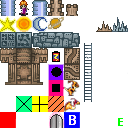
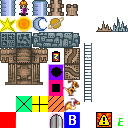
implemented the weapons

diff --git a/BinaryWarriors/Level3.m b/BinaryWarriors/Level3.m
@@ -12,6 +12,9 @@
 #import "Harpie.h"
 #import "SoundEffects.h"
 #import "Lives.h"
+#import "GameController.h"
+#import "Bullet.h"
+
 
 #define REWARD_CRUSH_MONSTA 20
 
@@ -40,6 +43,7 @@
     if((self = [super init])) {
         bubbles = [[NSArray alloc]initWithObjects:
                    @"Caught!",@"Gotcha!",@"Take that!",@"Pow!",@"Ha, ha!",nil];
+        gunLayer = [world layerNamed:@"gun"];
         
         feedback = [CCLabelTTF labelWithString:@"" fontName:@"Marker Felt" fontSize:24];
         
@@ -52,6 +56,7 @@
         // If you forget to add the feedback to the world and try to position
         // it later, cocos2d crashes
         [self addChild:feedback z:95];
+        bullets = [[NSMutableArray alloc] init];
     }
     
     return self;
@@ -60,6 +65,36 @@
 - (void) initWorld {
     [super initWorld];
     
+}
+
+- (void) update: (ccTime)dt{
+    [super update: dt];
+    if(caught || complete){
+        return;
+    }
+    if([gunLayer tileGIDAt:[grace getPosition]] != 0){
+        [grace foundWeapon];
+        [gunLayer removeTileAt:[grace getPosition]];
+    }
+    if([grace hasWeapon] && [[GameController instance] shootPressed] ){
+        CGPoint here = [grace getPosition];
+        int direction = [grace getDirection];
+        CGPoint to = [Helper tile:here toWorld:world];
+        to.x += (direction * 16);
+        to.y += 16;
+        Bullet* bullet = [[Bullet alloc] initAt:to of:self direct:direction enem:enemies];
+        [self addChild:bullet z:90];
+        [bullets addObject:bullet];
+    }
+    for(Bullet* bullet in bullets){
+        [bullet update];
+    }
+}
+
+-(void) destroyBullet:(id)bullet{
+    [self removeChild:bullet];
+    [bullet destroy];
+    //[bullets removeObject:bullet];
 }
 
 

diff --git a/BinaryWarriors/Bullet.m b/BinaryWarriors/Bullet.m
@@ -8,14 +8,71 @@
 
 #import "Bullet.h"
 #import "Entity.h"
-#import "Level3.h"
+//#import "Level1.h"
+//#import "level3.h"
+#define SPEED_FLYA 4
 
-@implementation Bullet{
-    Level1* level;
-    int x;
-    int y;
+#define FACING_LEFT 1
+#define FACING_RIGHT 0
+
+@implementation Bullet : Entity
+
+- (void) update {
+    if(destroyed){
+        return;
+    }
+	[self moveOnCondition];
 }
 
+-(void) moveTo:(int) dx and: (int) dy {
+	[self setPosition:ccp(self.x + dx,self.y + dy)];
+    
+}
+
+-(void) moveOnCondition {
+	[self moveTo: xSpeed and: ySpeed];
+	
+	if([self collidesWithLevel]) {
+		[myLevel destroyBullet: self];
+		
+		[self collisionEvent];
+	}
+}
+
+-(bool) collidesWithLevel {
+	return [level collidesWith: self];
+}
+
+-(void) collisionEvent {
+    for(Enemy* enemy in enemies){
+        if([enemy collidesWithBullet: self]){
+            destroyed = true;
+        }
+    }
+}
+
+-(void) destroy {
+    destroyed = true;
+}
+
+- (id) initAt:(CGPoint) here of:(Level3*) level_ direct: (int) _d  enem: (NSMutableArray*) eneme{
+    [super initWithFrames: @"bullet.png" width:10 andHeight:10];
+    enemies = eneme;
+	destroyed = false;
+	xSpeed = SPEED_FLYA * _d;
+	
+	ySpeed = 0;
+    
+    [self collisionEvent];
+	
+	[self setPosition:here];
+    [self nextFrame];
+    
+    level = level_;
+    myLevel = level_;
+	
+	return self;
+}
 
 
 @end

diff --git a/BinaryWarriors/Bullet.h b/BinaryWarriors/Bullet.h
@@ -7,7 +7,35 @@
 //
 
 #import <Foundation/Foundation.h>
+#import "Entity.h"
+#import "Level3.h"
 
-@interface Bullet : NSObject
+@interface Bullet : Entity {
+    int xSpeed;
+    int ySpeed;
+    Level3* myLevel;
+    bool destroyed;
+    NSMutableArray* enemies;
+}
 
+@property(nonatomic) enum state state;
+
+/** Updates an enemy */
+-(void) update;
+
+/** Moves enemy relative to current location */
+-(void) moveTo: (int) x and: (int)y;
+
+/** Moves conditionally */
+-(void) moveOnCondition;
+
+/** Returns true if enemy collides with the level */
+-(bool) collidesWithLevel;
+
+/** handles a collision event */
+-(void) collisionEvent;
+
+- (void) destroy;
+
+- (id) initAt:(CGPoint) here of:(Level3*) level_ direct: (int) _d enem: (NSMutableArray*) eneme;
 @end

diff --git a/BinaryWarriors/GameController.m b/BinaryWarriors/GameController.m
@@ -138,7 +138,7 @@ static GameController* gameController = nil;
     joystickBasePosition = ccp(screenSize.width*0.07f, screenSize.height*0.11f);
     
     quitButtonPosition = ccp(screenSize.width-16.0f, screenSize.height-16.0f);
-    CGPoint shootButtonPosition = ccp(screenSize.width*0.07f, screenSize.height*0.15f);
+    CGPoint shootButtonPosition = ccp(screenSize.width*0.07f, screenSize.height*0.23f);
     //    }
     
     SneakyJoystickSkinnedBase *joystickBase = [[[SneakyJoystickSkinnedBase alloc] init] autorelease];

diff --git a/BinaryWarriors/Enemy.m b/BinaryWarriors/Enemy.m
@@ -32,6 +32,18 @@
 	}
 }
 
+- (bool) collidesWithBullet:(Entity *)bullet{
+    if(state == STATE_ALIVE){
+        if(bullet.x > self.x && bullet.x < self.x + 32){
+            if(bullet.y > self.y && bullet.y < self.y + 32){
+                state = STATE_DYING;
+                return true;
+            }
+        }
+    }
+    return false;
+}
+
 -(bool) collidesWithLevel {
 	return [level collidesWith: self];
 }

diff --git a/BinaryWarriors/Level3.h b/BinaryWarriors/Level3.h
@@ -9,7 +9,10 @@
 #import <Foundation/Foundation.h>
 #import "Level2.h"
 
-@interface Level3 : Level2
+@interface Level3 : Level2{
+    NSMutableArray* bullets;
+    CCTMXLayer* gunLayer;
+}
 
 /** Gets a scene for this layer */
 + (CCScene *) scene;
@@ -19,4 +22,9 @@
 
 /** Initializes the world */
 - (void) initWorld;
+
+- (void) update: (ccTime)dt;
+
+-(void) destroyBullet: (id) bullet;
+
 @end

diff --git a/BinaryWarriors/Grace.m b/BinaryWarriors/Grace.m
@@ -309,7 +309,17 @@
     weapon = true;
 }
 
+-(int) getDirection {
+    if(self.frameNumber == FACING_LEFT){
+        return -1;
+    }
+    if(self.frameNumber == FACING_RIGHT){
+        return 1;
+    }
+    return 0;
+}
+
 - (BOOL) hasWeapon {
-    return true;
+    return weapon;
 }
 @end

diff --git a/BinaryWarriors/Enemy.h b/BinaryWarriors/Enemy.h
@@ -7,6 +7,7 @@
 //
 
 #import "Entity.h"
+//#import "Bullet.h"
 
 /** States of an enemy */
 enum state {
@@ -39,4 +40,5 @@ enum state {
 /** handles a collision event */
 -(void) collisionEvent;
 
+-(bool) collidesWithBullet: (Entity*) bullet;
 @end

diff --git a/BinaryWarriors/GameController.h b/BinaryWarriors/GameController.h
@@ -57,4 +57,6 @@ enum direction {
 
 /* Returns true if the quit button pressed */
 - (bool) quitPressed;
+
+-(bool) shootPressed;
 @end

diff --git a/BinaryWarriors/Grace.h b/BinaryWarriors/Grace.h
@@ -73,5 +73,7 @@
 
 - (void) foundWeapon;
 
+- (int) getDirection;
+
 -(CGPoint) getPosition;
 @end

diff --git a/BinaryWarriors/main.m b/BinaryWarriors/main.m
@@ -1,3 +1,5 @@
+
+
 //
 //  main.m
 //  BinaryWarriors
